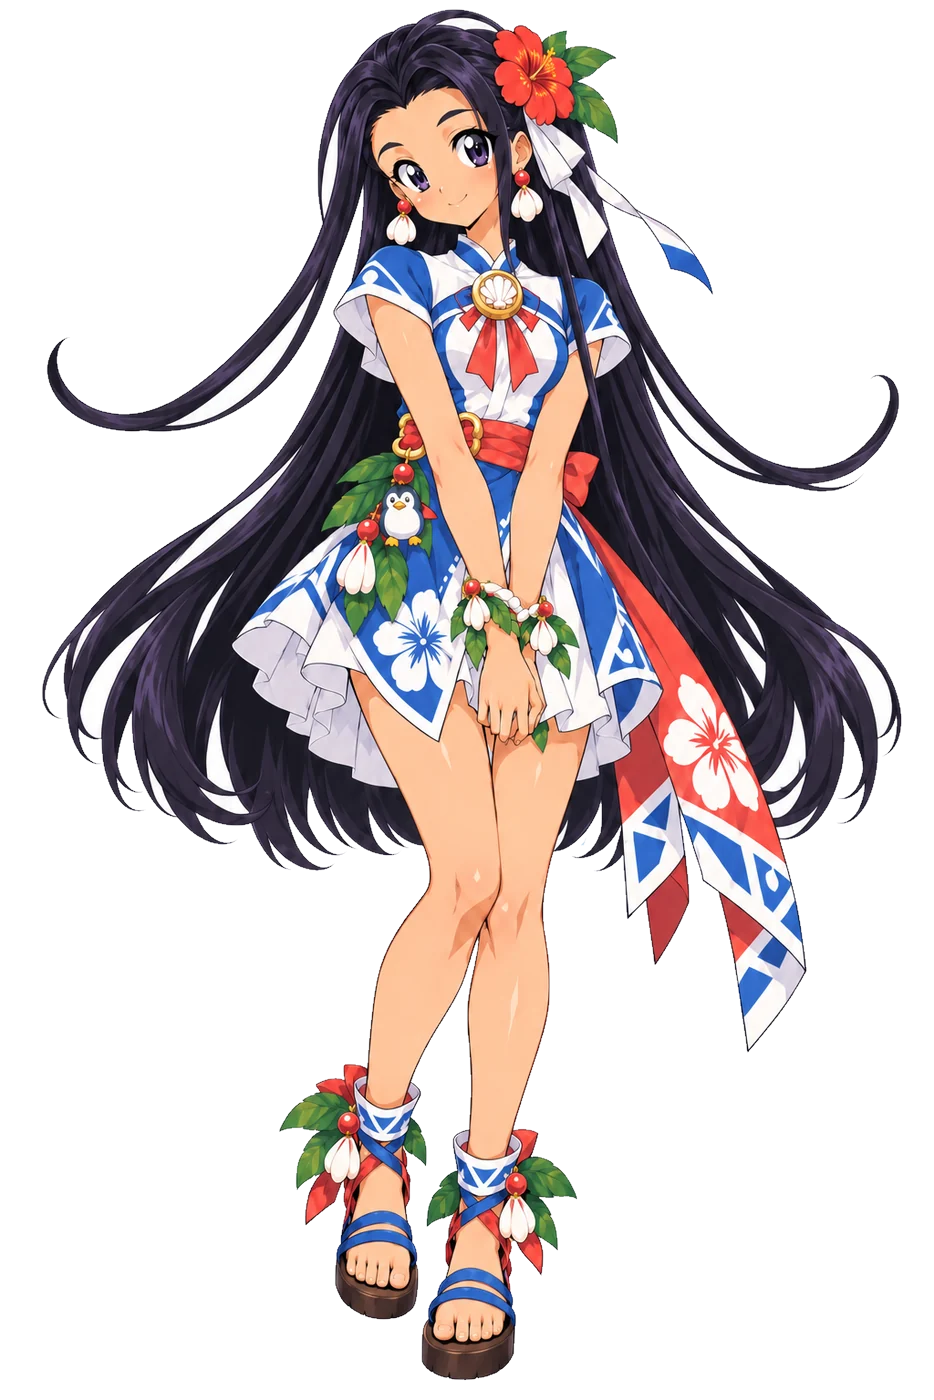
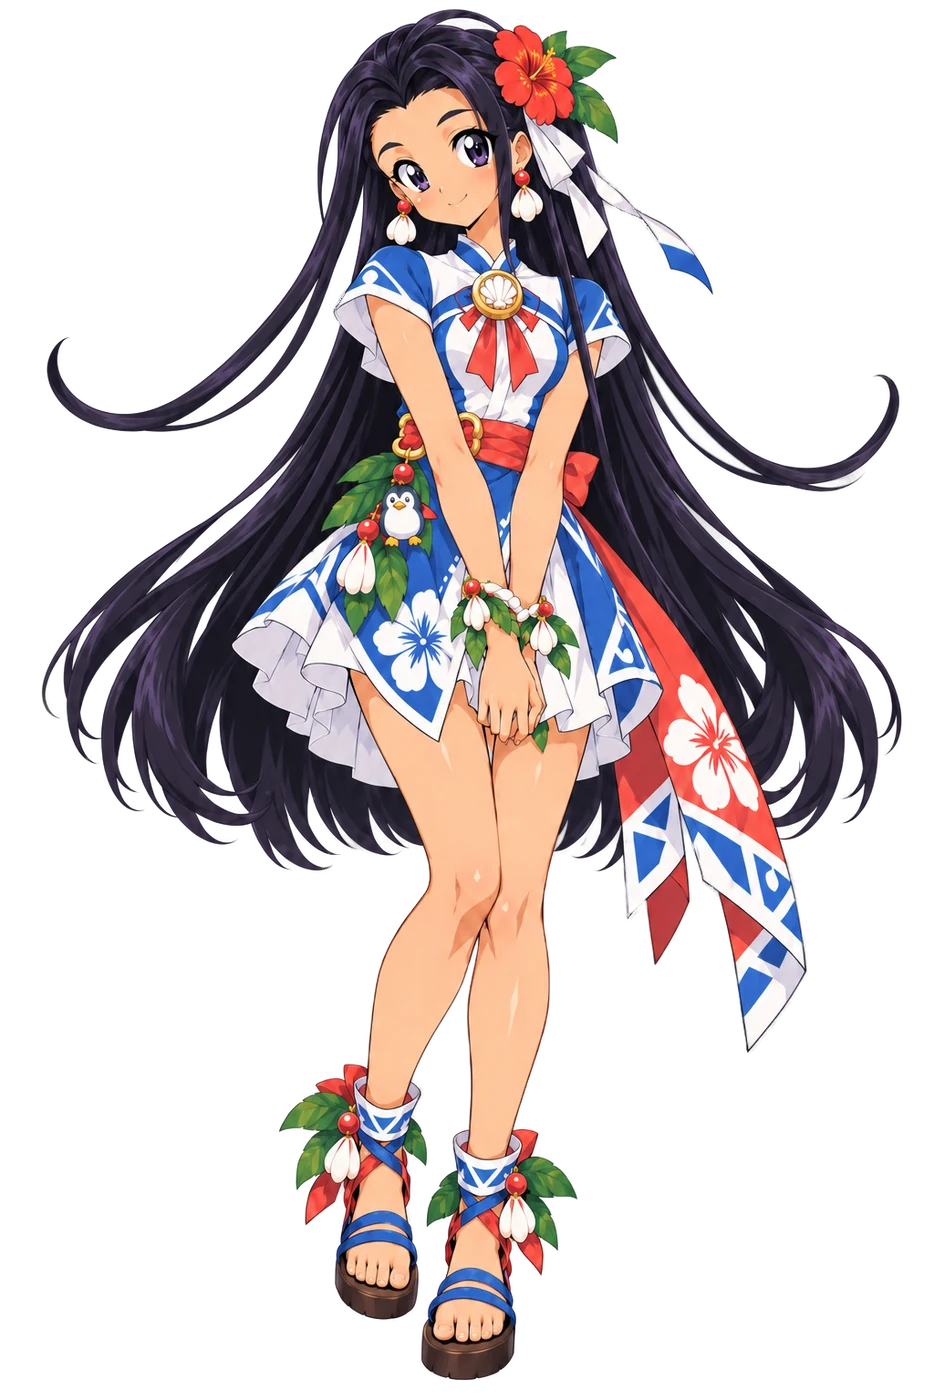
The stage: who is standing on it, where it is, and the island it opens
Every one of these was her looking at the intro and saying what was wrong with
it.

Whoever speaks arrives before their line does. The two landing together read
as the person already standing there saying it, every time the speaker
changed. The plate empties for that moment, the new one fades in, and a tap in
the gap is ignored rather than eating the line. A speaker with no drawing
empties the stage instead of leaving the last person standing.

Her thoughts say so: "Megu Thought" over them, a speaker of its own in the
scene file rather than a rule in code.

"-black-" is a change of place, not a flash. The ground goes dark, the stage
empties, and it stays empty until somebody new walks on to it - so the line
right after it is hers alone, on black, which is what she asked for. There is
no drawing of the church yet and black is better than a beach in a church.

The question the intro ends on stands in the middle of a darkened screen, the
way she drew it, not on the plate the conversation happened on.

The island she was promised: a World tab to the LEFT of Home, once the intro
has been played, carrying her map. Before that there is no tab - it opens on
somewhere the story has not taken her.

"Start Adventure" goes when the intro is behind her; she has started it. She
herself is still the way back in. And she is no longer grey to the bone on
Home - most of the colour still belongs to the story, but none at all read as
switched off.
[…]

Changed region(s): [[0.7141, 0.5836, 0.7452, 0.6143], [0.6831, 0.2764, 0.7141, 0.3071], [0.5899, 0.5836, 0.621, 0.6143]]

diff --git a/story.js b/story.js
@@ -84,7 +84,18 @@ export function parseScene(text) {
 // instead of doing nothing and leaving her wondering.
 const EFFECTS = { shock: 400, scared: 700, shake: 500, dark: 900 };
 
+/** A change of place, not a flash: the ground goes dark and the stage empties,
+ *  and it stays that way until somebody new is standing on it.  She has no
+ *  drawing of the church yet, so black is what the church is. */
+function blackout() {
+  $('main')?.classList.add('blackout');
+  blank = true;
+  const img = $('d-char')?.querySelector('img');
+  if (img) img.hidden = true;
+}
+
 function runEffect(name) {
+  if (name === 'black') return blackout();
   const ms = EFFECTS[name];
   if (!ms) {
     console.warn(`story: no effect called "${name}". There is: ${Object.keys(EFFECTS).join(', ')}`);
@@ -102,14 +113,18 @@ function runEffect(name) {
 // a plate that prints it is the story telling her something she was never told.
 // He leaves this set on the day the story says who he is.
 const UNMET = new Set(['TORO']);
+/** A name the screen spells its own way.  Her thoughts are not her speaking,
+ *  and the plate says so: she asked for "Megu Thought" over them. */
+const SHOWN = { 'MEGU THOUGHT': 'Megu Thought' };
 const named = (who) => (UNMET.has(who.toUpperCase()) ? '???'
-  : who[0] + who.slice(1).toLowerCase());
+  : SHOWN[who.toUpperCase()] ?? who[0] + who.slice(1).toLowerCase());
 
 // Who the screen shows.  There is one place to stand, so it belongs to whoever
 // is talking - a story that keeps showing her while somebody else speaks is
 // telling the wrong thing.  A name with no picture leaves whoever is there.
 const FACES = {
   MEGU: 'img/char.webp',
+  'MEGU THOUGHT': 'img/char.webp',
   TORO: 'img/taro.webp',
   LILY: 'img/lily.webp',
   HANRY: 'img/hanry.webp',
@@ -128,15 +143,27 @@ const FACES = {
 // So the stylesheet moves him, and it knows which of them is standing there
 // because of the line below.
 function show(who) {
+  const img = $('d-char')?.querySelector('img');
+  if (!img) return;
   const name = who?.toUpperCase();
   const face = FACES[name];
-  const img = $('d-char')?.querySelector('img');
-  if (!face || !img) return;
+  // Nobody to show: the stage is left empty rather than leaving the last
+  // person standing there while somebody else does the talking.
+  if (!face) { img.hidden = true; return; }
+  // After a change of place the stage stays empty until somebody new walks on
+  // to it.  The line straight after the change is hers, and standing her on
+  // the new ground before the story has shown it is telling the wrong thing.
+  if (blank && name === img.dataset.who) { img.hidden = true; return; }
+  blank = false;
+  img.hidden = false;
   if (!img.src.endsWith(face)) img.src = face;
   img.dataset.who = name;
 }
 
 let beats = [], at = 0, running = false, scene = '', ends = null;
+// Who spoke last, whether the stage is dark and empty, and whether the screen
+// is between two lines - a tap in that gap must not eat the next one.
+let lastWho = '', blank = false, hold = false;
 
 let back;                               // the timer that puts the noise back
 
@@ -161,7 +188,7 @@ function flip(line) {
 export const advance = (e) => {
   const noise = e?.target?.closest?.('.noise');
   if (noise) return flip(noise.closest('.line'));
-  if (running) step();
+  if (running && !hold) step();
 };
 
 /** The last beat of the intro is hers, and it is a question: how much of their
@@ -174,15 +201,23 @@ const LEVEL_Q = 'Megu is having trouble with the local accent! '
   + 'What is your lvl of the language?';
 
 function askLevel(box) {
-  box.innerHTML = `<p class="line">${esc(LEVEL_Q)}</p>
+  // The screen goes dark and the question stands in the middle of it, the way
+  // she drew it - not on the plate at the foot of the screen, which is where
+  // the conversation happened and this is not part of the conversation.
+  const over = document.createElement('div');
+  over.className = 'over dark';
+  over.id = 'over';
+  over.innerHTML = `<div class="card"><p>${esc(LEVEL_Q)}</p>
     <div class="chips lv">${LEVELS.map(([id, title]) =>
-    `<button data-lv="${esc(id)}">${esc(title)}</button>`).join('')}</div>`;
-  for (const b of box.querySelectorAll('[data-lv]')) {
+    `<button data-lv="${esc(id)}">${esc(title)}</button>`).join('')}</div></div>`;
+  document.body.append(over);
+  for (const b of over.querySelectorAll('[data-lv]')) {
     b.addEventListener('click', (e) => {
       e.stopPropagation();              // the screen is a way on; this is not
       setLevel(b.dataset.lv);
       (settings.scenes ??= {})[scene] = { done: true, v: FIRST_V };
       saveSettings();
+      over.remove();
       box.innerHTML = '<p class="end">— to be continued —</p>';
       ends?.();
     });
@@ -199,11 +234,21 @@ function step() {
     return askLevel(box);
   }
   const b = beats[at++];
+  const changed = (b.who ?? '') !== lastWho;
+  lastWho = b.who ?? '';
   show(b.who);                          // the screen belongs to whoever is talking
   if (b.fx) runEffect(b.fx);            // the screen flinches as the line lands
   const jp = JAPANESE.test(b.text);
-  box.innerHTML = `${b.who ? `<p class="who">${esc(named(b.who))}</p>` : ''}
+  const html = `${b.who ? `<p class="who">${esc(named(b.who))}</p>` : ''}
     <p class="line">${jp ? heard(b.text) : esc(b.text)}</p><p class="on">tap to go on</p>`;
+  // The person arrives before their line does.  Both landing in the same
+  // instant reads as the one who was already standing there saying it, which
+  // is what she saw every time the speaker changed.  The plate is empty for
+  // that moment, and a tap in it is ignored rather than eating the line.
+  if (!changed) { box.innerHTML = html; return; }
+  box.innerHTML = '';
+  hold = true;
+  setTimeout(() => { hold = false; box.innerHTML = html; }, 220);
 }
 
 export async function startScene(name, onEnd) {
@@ -221,6 +266,12 @@ export async function startScene(name, onEnd) {
   at = 0;
   scene = name;
   said.clear();                         // the test asks about THIS run of it
+  // A second time through starts on the same ground as the first: nobody left
+  // standing from last time, no change of place still in force.
+  lastWho = ''; blank = false; hold = false;
+  $('main')?.classList.remove('blackout');
+  const img = $('d-char')?.querySelector('img');
+  if (img) img.hidden = false;
   running = true;                       // the screen carries the taps from here
   step();
 }

diff --git a/dash.js b/dash.js
@@ -17,7 +17,7 @@ import { countRow, bindCount } from './perday.js';
 import { markTab } from './nav.js';
 import { talkPanel, startStory } from './talk.js';
 import { advance } from './story.js';
-import { questMark, bindQuest, noteAfterStory } from './quest.js';
+import { questMark, bindQuest, noteAfterStory, questsOpen } from './quest.js';
 
 /** The scene is over.  She lands back on the island - which is this screen -
  *  with her note laid over it.  The story does not know about Home and should
@@ -61,7 +61,8 @@ export function dash() {
         ${ring(deck.cards, '158px', `<div class="mid"><span class="n">${deck.cards.length}</span>
           <span class="l">words</span>${done ? `<span class="l today">${done} today</span>` : ''}</div>`)}
       </div>
-      <button class="big story" id="d-story"><span class="t">Start Adventure</span></button>
+      ${questsOpen() ? ''
+    : '<button class="big story" id="d-story"><span class="t">Start Adventure</span></button>'}
       ${questMark()}
     </div>
     ${talkPanel()}
@@ -115,7 +116,10 @@ export function dash() {
   bindQuest();
   // The same door with a handle on it: she wanted the way in written down, not
   // only guessable from the drawing.
-  $('d-story').addEventListener('click', (e) => {
+  // It is gone once the intro has been played - she has started it, and a
+  // button that says "start" on a story she has finished is the app forgetting
+  // where she is.  She herself is still the way back into it.
+  $('d-story')?.addEventListener('click', (e) => {
     e.stopPropagation();
     startStory(backFromStory);
   });

diff --git a/nav.js b/nav.js
@@ -9,6 +9,8 @@ import { home } from './decks.js';
 import { dash } from './dash.js';
 import { statsPage } from './statsview.js';
 import { settingsPage } from './settings.js';
+import { worldPage } from './world.js';
+import { questsOpen } from './quest.js';
 
 const TABS = [
   ['home', 'Home', 'home', () => dash()],
@@ -16,6 +18,12 @@ const TABS = [
   ['stats', 'Stats', 'stats', () => statsPage()],
   ['settings', 'Settings', 'gear', () => settingsPage()],
 ];
+
+/** The island opens to the LEFT of Home, where she drew it, and only once the
+ *  intro has been played: it is the place the story lets her out on to, and a
+ *  tab to it before that is a door onto somewhere she has not been. */
+const WORLD = ['world', 'World', 'world', () => worldPage()];
+const tabsNow = () => (questsOpen() ? [WORLD, ...TABS] : TABS);
 
 /** Which tab is lit. A board's page and a lesson belong to Decks, so the bar
  *  keeps saying where she is even when she is two screens deep. */
@@ -27,9 +35,10 @@ export function markTab(id) {
 }
 
 export function buildNav() {
-  $('tabs').innerHTML = TABS.map(([id, name, icon]) =>
+  const tabs = tabsNow();
+  $('tabs').innerHTML = tabs.map(([id, name, icon]) =>
     `<button data-tab="${id}" aria-label="${name}">${ic(icon)}<span>${name}</span></button>`).join('');
-  for (const [id, , , go] of TABS) {
+  for (const [id, , , go] of tabs) {
     document.querySelector(`#tabs [data-tab="${id}"]`)
       .addEventListener('click', () => { markTab(id); go(); });
   }

diff --git a/css/story.css b/css/story.css
@@ -71,6 +71,23 @@ main.dash.talking>.talk{display:flex;margin-top:auto;position:relative;z-index:2
 .speech .skip:active{background:var(--warm)}
 .speech .end{color:var(--dim);text-align:center}
 
+/* Whoever is speaking arrives a moment before their line, and fades in rather
+   than being swapped: a hard cut between two people reads as a glitch. */
+main.dash.talking .char img{transition:opacity .18s ease}
+
+/* A change of place - "-black-" in a scene.  Not a flash: the ground goes dark
+   and the stage stays empty until somebody new is standing on it.  There is no
+   drawing of the church yet, and the beach behind a church is worse than
+   black. */
+main.dash.talking.blackout,
+main.dash.talking.blackout .top{background:#05080f}
+
+/* The question the intro ends on: the screen goes dark and it stands in the
+   middle of it, the way she drew it - not on the plate at the foot of the
+   screen, which is where the conversation was. */
+.over.dark{background:#05080fe6}
+.over.dark .chips{grid-template-columns:1fr 1fr 1fr}
+
 /* What a -word- on its own does.  Two of them so far, and both are over in
    under a second: a screen that shakes for longer reads as a fault. */
 /* Shock is the camera flinching once, hard and short - what a person does when

diff --git a/world.js b/world.js
@@ -1,0 +1,27 @@
+// The island: her map, and the tab that opens it.
+//
+// It appears only once the intro has been played - the island is what she is
+// let out on to at the end of it, and a door to it before that opens on a
+// place the story has not taken her yet.
+//
+// There is nothing on the map to press yet.  It is the place the quests will
+// stand on, and it is here now because she asked for the tab to exist.
+import { $ } from './dom.js';
+import { leave } from './screens.js';
+import { markTab } from './nav.js';
+
+export function worldPage() {
+  leave();
+  markTab('world');
+  $('star').hidden = $('back').hidden = true;
+  $('stats').hidden = true;
+  $('counts').innerHTML = '';
+  $('counts').title = 'World';
+
+  $('main').className = 'page world';
+  $('main').innerHTML = `
+    <div class="head"><h1>The island</h1></div>
+    <div class="map"><img src="img/world.webp" alt="The island"></div>
+    <p class="note">Higashi village, and everything around it she has not seen
+      yet. The quests will stand here.</p>`;
+}

diff --git a/css/home.css b/css/home.css
@@ -76,9 +76,12 @@ main.dash:not(.talking) .top::after{content:"";position:absolute;z-index:1;
    curls of her hair on both sides - and her hair is not mine to trim.  She is
    smaller by that much; the box is what keeps her clear of the number, so it
    cannot be widened to give the size back. */
+/* Not grey to the bone: she asked for some of the colour back.  Most of it
+   still belongs to the story - she stands in full colour the moment it starts
+   - but a figure with no hue at all on the island read as switched off. */
 .char img{width:100%;height:auto;display:block;
-  filter:grayscale(1) drop-shadow(0 5px 9px rgba(6,12,28,.28))}
-:root[data-theme="dark"] .char img{filter:grayscale(1) var(--dim-art)
+  filter:grayscale(.55) drop-shadow(0 5px 9px rgba(6,12,28,.28))}
+:root[data-theme="dark"] .char img{filter:grayscale(.55) var(--dim-art)
   drop-shadow(0 5px 9px rgba(6,12,28,.55))}
 .char:active img{transform:translateY(1px)}
 .char{transition:translate .35s ease}

diff --git a/icons.js b/icons.js
@@ -35,7 +35,12 @@ const bat = new Map(BOARD_ART.map((n, i) => [n, [i % COLS, (i / COLS) | 0]]));
  *  gear is one: her sheet draws Settings as a flower, but the phone she drew has
  *  a gear down in the bar.  The books for the boards and the jungle for the
  *  random run she drew later, on a sheet of their own. */
-const OWN = { gear: 'img/gear.webp', decks: 'img/decks.webp', jungle: 'img/jungle.webp' };
+const OWN = {
+  gear: 'img/gear.webp', decks: 'img/decks.webp', jungle: 'img/jungle.webp',
+  // The island itself, cut square out of her map: the World tab wears the
+  // place it opens rather than a symbol for it.
+  world: 'img/world-ic.webp',
+};
 /** Her night sheet draws these worse than her day sheet, so
  *  after dark they are taken off the day one and turned down to suit the night. */
 const DAYLIT = new Set(['hidden']);

diff --git a/css/world.css b/css/world.css
@@ -1,0 +1,7 @@
+/* The island: her map, whole, and a line under it.  One picture is the screen,
+   so it is given the width and left alone - a map cropped to a tidy rectangle
+   is a map with places missing off the edges. */
+.page.world .map{border-radius:18px;overflow:hidden;border:1px solid var(--line);
+  box-shadow:var(--shade);line-height:0}
+.page.world .map img{width:100%;height:auto;display:block}
+.page.world .note{margin:11px 2px 0;color:var(--dim);font-size:13px;line-height:1.5}

diff --git a/index.html b/index.html
@@ -20,6 +20,7 @@
 <link rel="stylesheet" href="css/stats.css">
 <link rel="stylesheet" href="css/home.css">
 <link rel="stylesheet" href="css/story.css">
+<link rel="stylesheet" href="css/world.css">
 <link rel="stylesheet" href="css/buttons.css">
 <link rel="stylesheet" href="css/boards.css">
 <link rel="stylesheet" href="css/lesson.css">
